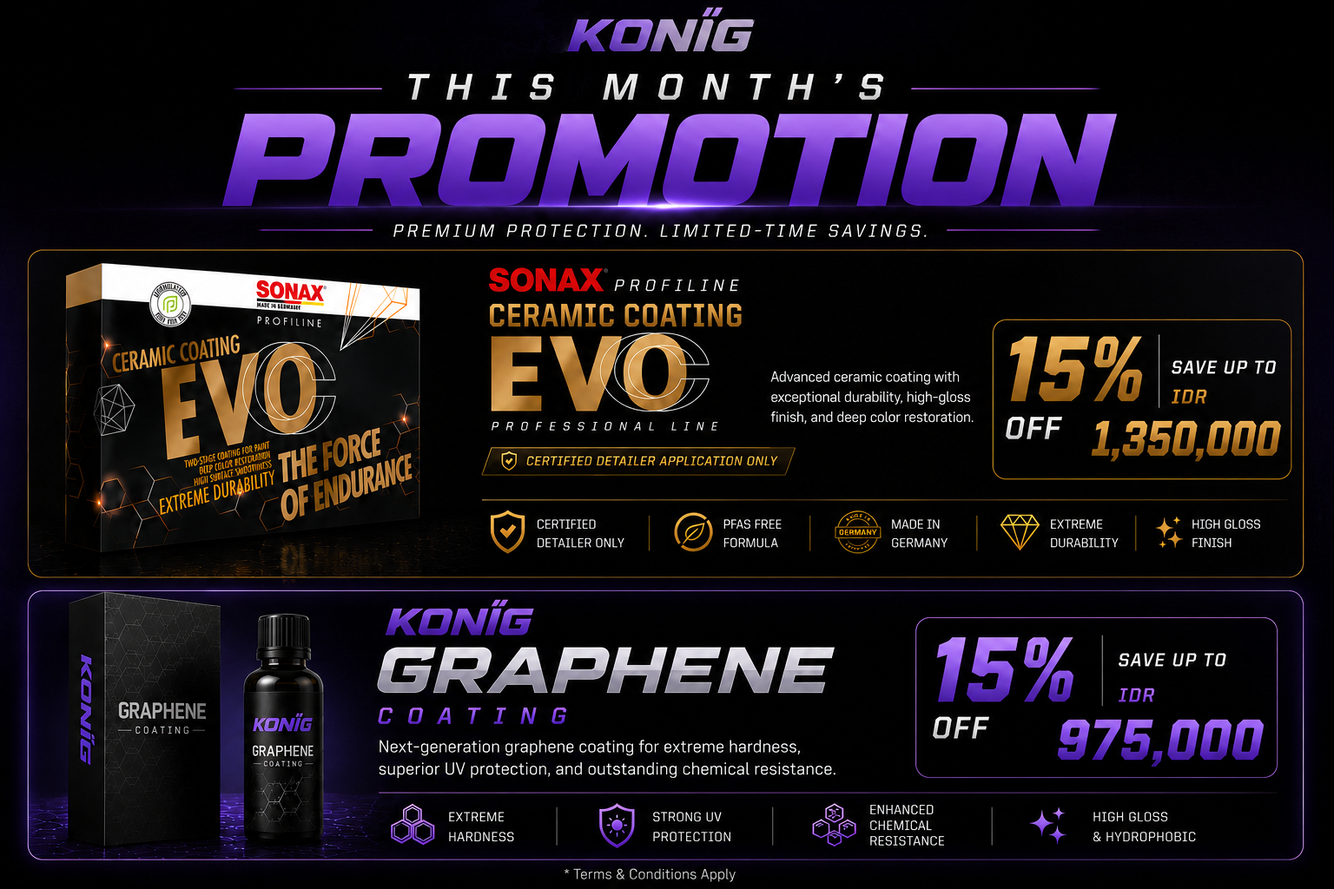
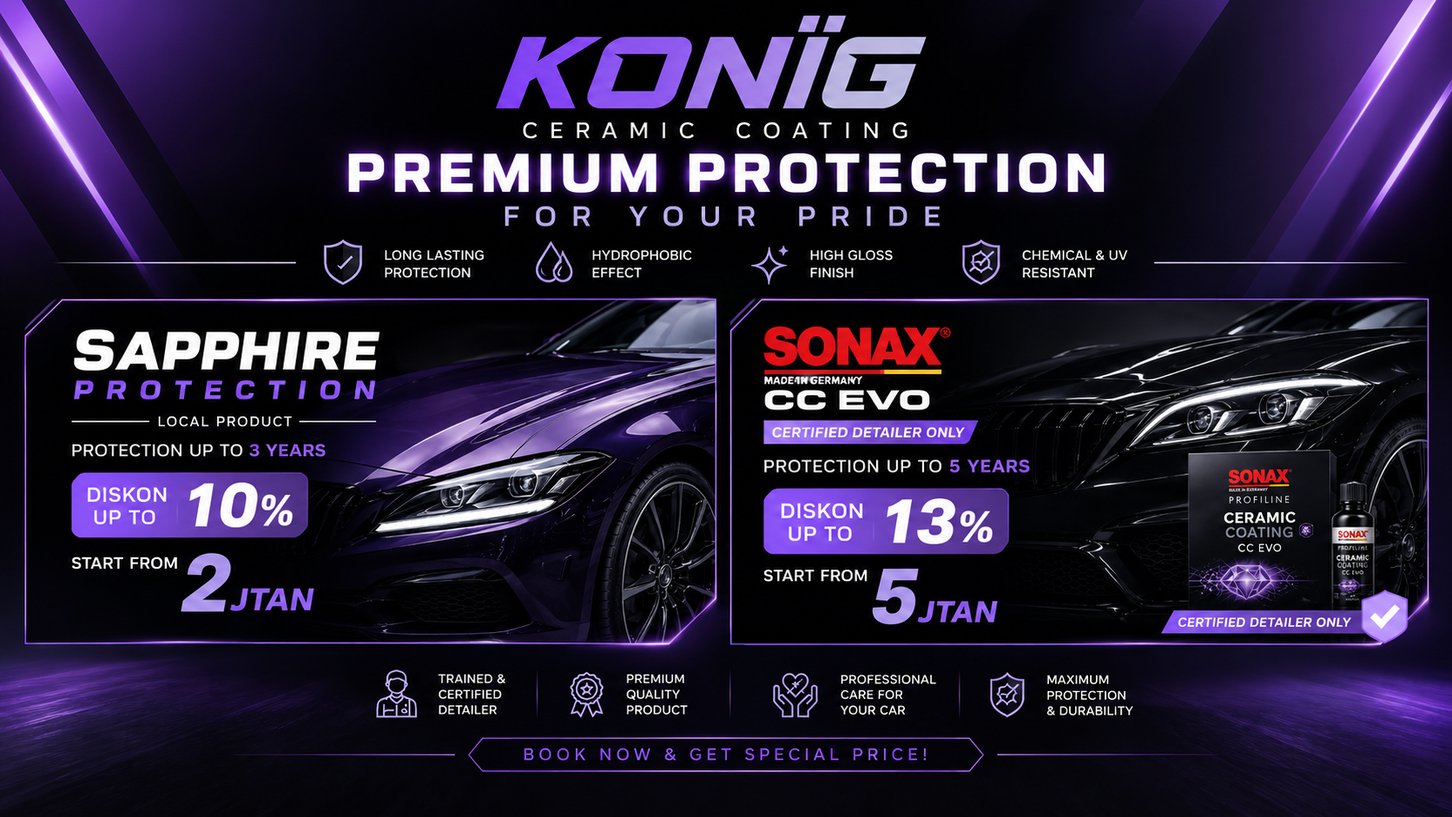
Add files via upload

diff --git a/services.html b/services.html
@@ -1,30 +1,47 @@
 <!DOCTYPE html>
 <html lang="id">
 <head>
+  <!-- Google Analytics + Google Ads Tag -->
+  <script async src="https://www.googletagmanager.com/gtag/js?id=G-ZQDE2DGZZ4"></script>
+  <script>
+    window.dataLayer = window.dataLayer || [];
+    function gtag(){dataLayer.push(arguments);}
+    gtag('js', new Date());
+    gtag('config', 'G-ZQDE2DGZZ4');
+    gtag('config', 'AW-17788548573');
+  </script>
   <meta charset="UTF-8"/>
   <meta name="viewport" content="width=device-width,initial-scale=1.0,maximum-scale=1.0"/>
-  <meta name="description" content="KONÏG Auto Detailing — Layanan Ceramic Coating, Graphene Coating, Premium Wash, Window Coating di Gading Serpong, Tangerang."/>
+  <meta name="description" content="KONÏG Auto Detailing — Layanan Ceramic Coating, Graphene Coating, Premium Wash, Window Coating, Express & Premium Polish di Gading Serpong, Tangerang."/>
   <title>Services — KONÏG Auto Detailing</title>
-  <script async src="https://www.googletagmanager.com/gtag/js?id=G-ZQDE2DGZZ4"></script>
-  <script>window.dataLayer=window.dataLayer||[];function gtag(){dataLayer.push(arguments)}gtag('js',new Date());gtag('config','G-ZQDE2DGZZ4');gtag('config','AW-17788548573');</script>
-  <link rel="preconnect" href="https://fonts.googleapis.com">
+<link rel="preconnect" href="https://fonts.googleapis.com">
   <link href="https://fonts.googleapis.com/css2?family=Bebas+Neue&family=Barlow+Condensed:wght@400;600;700;800;900&family=Barlow:wght@300;400;500&display=swap" rel="stylesheet">
   <style>
     *,*::before,*::after{margin:0;padding:0;box-sizing:border-box}
-    :root{--black:#080810;--dark:#0f0f1a;--panel:#161625;--border:#2a2a45;--purple:#7B2FBE;--purple2:#9B3FDE;--purpleB:#b06aff;--white:#f0eeff;--text:#d4cef0;--muted:#9d93c0}
+    :root{--black:#080810;--dark:#0f0f1a;--panel:#161625;--border:#2a2a45;--purple:#7B2FBE;--purple2:#9B3FDE;--purpleB:#b06aff;--white:#f0eeff;--text:#d4cef0;--muted:#9d93c0;--success:#4cd4a0}
     html{scroll-behavior:smooth;overflow-x:hidden}
     body{background:var(--black);color:var(--text);font-family:'Barlow',sans-serif;overflow-x:hidden;padding-top:128px}
+    .page-eyebrow{font-family:'Barlow Condensed',sans-serif;font-size:10px;font-weight:800;letter-spacing:5px;text-transform:uppercase;color:var(--purpleB);margin-bottom:12px;display:block}
+    .page-title{font-family:'Bebas Neue',sans-serif;font-size:clamp(40px,10vw,64px);letter-spacing:2px;color:var(--white);line-height:1;margin-bottom:8px}
+    .page-title span{color:var(--purpleB)}
+    .page-desc{font-size:15px;font-weight:400;color:var(--text);line-height:1.8;max-width:540px;margin-bottom:48px;opacity:0.9}
 
-    /* PROMO BAR */
-    .promo-bar{background:linear-gradient(90deg,#0a0020,#1a0840,#7B2FBE,#1a0840,#0a0020);background-size:300% 100%;animation:promoShimmer 6s ease-in-out infinite;padding:10px 24px;text-align:center;cursor:pointer;border-bottom:1px solid rgba(123,47,190,0.4);position:fixed;top:0;left:0;right:0;z-index:201;}
-    @keyframes promoShimmer{0%,100%{background-position:0% 50%}50%{background-position:100% 50%}}
-    .promo-bar-inner{display:flex;align-items:center;justify-content:center;gap:12px;flex-wrap:wrap;max-width:1100px;margin:0 auto}
-    .promo-tag{font-family:'Barlow Condensed',sans-serif;font-size:10px;font-weight:800;letter-spacing:3px;text-transform:uppercase;color:#f59e0b;background:rgba(245,158,11,0.15);border:1px solid rgba(245,158,11,0.4);padding:2px 10px}
-    .promo-text{font-family:'Barlow Condensed',sans-serif;font-size:13px;font-weight:700;letter-spacing:1px;color:#fff}
-    .promo-cta{font-family:'Barlow Condensed',sans-serif;font-size:11px;font-weight:800;letter-spacing:2px;text-transform:uppercase;color:#b06aff;border:1px solid #b06aff;padding:3px 12px;transition:all 0.2s}
-    .promo-bar:hover .promo-cta{background:#b06aff;color:#fff}
+    .services-grid{display:grid;gap:2px}
+    @media(min-width:768px){.services-grid{grid-template-columns:1fr 1fr}}
+    .service-card{background:var(--panel);border:1px solid var(--border);border-left:4px solid var(--purple);padding:28px 24px;transition:all 0.25s;position:relative}
+    .service-card:hover{background:#1a1a2e;border-left-color:var(--purpleB)}
+    .service-tag{font-family:'Barlow Condensed',sans-serif;font-size:9px;font-weight:800;letter-spacing:3px;text-transform:uppercase;color:var(--purpleB);background:rgba(123,47,190,0.12);border:1px solid rgba(123,47,190,0.3);padding:3px 10px;display:inline-block;margin-bottom:12px}
+    .service-name{font-family:'Barlow Condensed',sans-serif;font-size:24px;font-weight:900;letter-spacing:1px;color:var(--white);text-transform:uppercase;margin-bottom:8px}
+    .service-duration{font-family:'Barlow Condensed',sans-serif;font-size:11px;font-weight:700;letter-spacing:2px;color:var(--purpleB);text-transform:uppercase;margin-bottom:12px}
+    .service-desc{font-size:13px;color:var(--text);line-height:1.7;margin-bottom:14px}
+    .service-features{display:flex;flex-wrap:wrap;gap:6px}
+    .service-feat{font-size:10px;letter-spacing:1px;padding:4px 10px;border:1px solid var(--border);color:var(--muted);font-family:'Barlow Condensed',sans-serif;font-weight:600;text-transform:uppercase}
+    .service-cta{display:inline-block;margin-top:16px;padding:10px 20px;background:var(--purple2);color:#fff;font-family:'Barlow Condensed',sans-serif;font-size:12px;font-weight:800;letter-spacing:2px;text-transform:uppercase;text-decoration:none;transition:background 0.2s}
+    .service-cta:hover{background:var(--purpleB)}
 
-    /* NAV */
+    .wa-float{position:fixed;bottom:24px;right:24px;z-index:200;width:56px;height:56px;border-radius:50%;background:#25D366;color:white;display:flex;align-items:center;justify-content:center;font-size:26px;text-decoration:none;box-shadow:0 8px 24px rgba(37,211,102,0.4);animation:waPulse 3s ease-in-out infinite}
+    @keyframes waPulse{0%,100%{box-shadow:0 8px 24px rgba(37,211,102,0.4)}50%{box-shadow:0 8px 36px rgba(37,211,102,0.65)}}
+    .site-
     .site-nav{position:fixed;top:42px;left:0;right:0;z-index:100;display:flex;flex-direction:column;background:rgba(8,8,16,0.97);backdrop-filter:blur(16px);border-bottom:1px solid rgba(123,47,190,0.2)}
     .nav-row1{display:flex;align-items:center;justify-content:space-between;padding:10px 20px}
     .nav-row2{display:flex;border-top:1px solid var(--border)}
@@ -35,14 +52,6 @@
     .nav-cta{padding:8px 16px;background:var(--purple2);color:#fff;font-family:'Barlow Condensed',sans-serif;font-size:12px;font-weight:700;letter-spacing:2px;text-transform:uppercase;text-decoration:none;transition:background 0.2s}
     .nav-cta:hover{background:var(--purpleB)}
 
-    /* BANNER MODAL */
-    .banner-overlay{position:fixed;inset:0;z-index:500;background:rgba(4,2,16,0.92);backdrop-filter:blur(6px);display:flex;align-items:center;justify-content:center;padding:20px;}
-    .banner-box{position:relative;max-width:1000px;width:100%;}
-    .banner-box img{width:100%;display:block;border:1px solid rgba(123,47,190,0.4)}
-    .banner-close{position:absolute;top:-14px;right:-14px;width:36px;height:36px;border-radius:50%;background:#9B3FDE;border:none;color:#fff;font-size:18px;cursor:pointer;display:flex;align-items:center;justify-content:center;}
-    .banner-cta{display:block;text-align:center;margin-top:14px;padding:14px;background:#9B3FDE;color:#fff;font-family:'Barlow Condensed',sans-serif;font-size:13px;font-weight:800;letter-spacing:3px;text-transform:uppercase;text-decoration:none}
-
-    /* CONTENT */
     .section-inner{max-width:1100px;margin:0 auto;padding:48px 24px 80px}
     .page-eyebrow{font-family:'Barlow Condensed',sans-serif;font-size:10px;font-weight:800;letter-spacing:5px;text-transform:uppercase;color:var(--purpleB);margin-bottom:12px;display:block}
     .page-title{font-family:'Bebas Neue',sans-serif;font-size:clamp(40px,10vw,64px);letter-spacing:2px;color:var(--white);line-height:1;margin-bottom:8px}
@@ -50,41 +59,33 @@
     .page-desc{font-size:15px;font-weight:400;color:var(--text);line-height:1.8;max-width:540px;margin-bottom:48px;opacity:0.9}
     .services-grid{display:grid;gap:2px}
     @media(min-width:768px){.services-grid{grid-template-columns:1fr 1fr}}
-    .service-card{background:var(--panel);border:1px solid var(--border);border-left:4px solid var(--purple);padding:28px 24px;transition:all 0.25s;position:relative}
-    .service-card:hover{background:#1a1a2e;border-left-color:var(--purpleB)}
-    .service-tag{font-family:'Barlow Condensed',sans-serif;font-size:9px;font-weight:800;letter-spacing:3px;text-transform:uppercase;color:var(--purpleB);background:rgba(123,47,190,0.12);border:1px solid rgba(123,47,190,0.3);padding:3px 10px;display:inline-block;margin-bottom:12px}
-    .service-name{font-family:'Barlow Condensed',sans-serif;font-size:24px;font-weight:900;letter-spacing:1px;color:var(--white);text-transform:uppercase;margin-bottom:8px}
-    .service-duration{font-family:'Barlow Condensed',sans-serif;font-size:11px;font-weight:700;letter-spacing:2px;color:var(--purpleB);text-transform:uppercase;margin-bottom:12px}
-    .service-desc{font-size:13px;color:var(--text);line-height:1.7;margin-bottom:14px}
-    .service-features{display:flex;flex-wrap:wrap;gap:6px;margin-bottom:16px}
-    .service-feat{font-size:10px;letter-spacing:1px;padding:4px 10px;border:1px solid var(--border);color:var(--muted);font-family:'Barlow Condensed',sans-serif;font-weight:600;text-transform:uppercase}
-    .service-cta{display:inline-block;padding:10px 20px;background:var(--purple2);color:#fff;font-family:'Barlow Condensed',sans-serif;font-size:12px;font-weight:800;letter-spacing:2px;text-transform:uppercase;text-decoration:none;transition:background 0.2s}
-    .service-cta:hover{background:var(--purpleB)}
-
-    .wa-float{position:fixed;bottom:24px;right:24px;z-index:200;width:56px;height:56px;border-radius:50%;background:#25D366;color:white;display:flex;align-items:center;justify-content:center;font-size:26px;text-decoration:none;box-shadow:0 8px 24px rgba(37,211,102,0.4);animation:waPulse 3s ease-in-out infinite}
-    @keyframes waPulse{0%,100%{box-shadow:0 8px 24px rgba(37,211,102,0.4)}50%{box-shadow:0 8px 36px rgba(37,211,102,0.65)}}
-
-    /* SERVICE MODALS */
-    .svc-modal{display:none;position:fixed;inset:0;z-index:500;background:rgba(4,2,16,0.94);backdrop-filter:blur(6px);align-items:center;justify-content:center;padding:16px;}
-    .svc-modal-box{position:relative;width:100%;max-height:92vh;overflow-y:auto;}
-    .svc-modal-close{position:sticky;top:0;right:0;float:right;width:36px;height:36px;border-radius:50%;background:#9B3FDE;border:none;color:#fff;font-size:18px;cursor:pointer;z-index:10;margin-bottom:8px;}
-    .svc-modal-img{width:100%;display:block;border:1px solid rgba(123,47,190,0.4);}
-    .svc-modal-cta{display:block;text-align:center;margin-top:12px;padding:14px;background:#9B3FDE;color:#fff;font-family:'Barlow Condensed',sans-serif;font-size:13px;font-weight:800;letter-spacing:3px;text-transform:uppercase;text-decoration:none;}
+  </style>
+  <style>
+    .promo-bar{
+      background:linear-gradient(90deg,#0a0020,#1a0840,#7B2FBE,#1a0840,#0a0020);
+      background-size:300% 100%;
+      animation:promoShimmer 6s ease-in-out infinite;
+      padding:10px 24px;text-align:center;cursor:pointer;
+      border-bottom:1px solid rgba(123,47,190,0.4);
+      position:fixed;top:0;left:0;right:0;z-index:201;
+    }
+    @keyframes promoShimmer{0%,100%{background-position:0% 50%}50%{background-position:100% 50%}}
+    .promo-bar-inner{display:flex;align-items:center;justify-content:center;gap:12px;flex-wrap:wrap;max-width:1100px;margin:0 auto}
+    .promo-tag{font-family:'Barlow Condensed',sans-serif;font-size:10px;font-weight:800;letter-spacing:3px;text-transform:uppercase;color:#f59e0b;background:rgba(245,158,11,0.15);border:1px solid rgba(245,158,11,0.4);padding:2px 10px}
+    .promo-text{font-family:'Barlow Condensed',sans-serif;font-size:13px;font-weight:700;letter-spacing:1px;color:#fff}
+    .promo-cta{font-family:'Barlow Condensed',sans-serif;font-size:11px;font-weight:800;letter-spacing:2px;text-transform:uppercase;color:#b06aff;border:1px solid #b06aff;padding:3px 12px;transition:all 0.2s}
+    .promo-bar:hover .promo-cta{background:#b06aff;color:#fff}
+    .banner-overlay{position:fixed;inset:0;z-index:500;background:rgba(4,2,16,0.92);backdrop-filter:blur(6px);display:flex;align-items:center;justify-content:center;padding:20px;}
+    .banner-box{position:relative;max-width:1000px;width:100%;}
+    .banner-box img{width:100%;display:block;border:1px solid rgba(123,47,190,0.4)}
+    .banner-close{position:absolute;top:-14px;right:-14px;width:36px;height:36px;border-radius:50%;background:#9B3FDE;border:none;color:#fff;font-size:18px;cursor:pointer;display:flex;align-items:center;justify-content:center;box-shadow:0 4px 16px rgba(123,47,190,0.5)}
+    .banner-cta{display:block;text-align:center;margin-top:14px;padding:14px;background:#9B3FDE;color:#fff;font-family:'Barlow Condensed',sans-serif;font-size:13px;font-weight:800;letter-spacing:3px;text-transform:uppercase;text-decoration:none}
   </style>
 </head>
 <body>
 
-<!-- PROMO BAR (fixed top:0) -->
-<div class="promo-bar" onclick="openGrapheneBanner();trackEvent('promo_bar_click')">
-  <div class="promo-bar-inner">
-    <span id="promoTextShort">🔥 Eksklusif Promo</span>
-    <span id="promoTagFull" style="display:none;" class="promo-tag">🔥 Graphene Coating</span>
-    <span id="promoTextFull" style="display:none;" class="promo-text">KONÏG Graphene Coating — Next Gen Protection · Eternity up to 8 Years · Made in Korea</span>
-    <span class="promo-cta">Tanya Sekarang →</span>
-  </div>
-</div>
+<!-- GRAPHENE PROMO BAR (always visible) -->
 
-<!-- NAV (fixed top:42px) -->
 <nav class="site-nav">
   <div class="nav-row1">
     <a href="/" onclick="sessionStorage.setItem('konig_welcomed','1')" style="display:block;line-height:0;">
@@ -100,37 +101,62 @@
   </div>
 </nav>
 
-<!-- BANNER MODAL -->
+<div class="promo-bar" onclick="openGrapheneBanner();trackEvent('promo_bar_click')" style="cursor:pointer;">
+  <div class="promo-bar-inner">
+    <span id="promoTextShort" style="font-family:'Barlow Condensed',sans-serif;font-size:15px;font-weight:800;letter-spacing:1px;color:#fff;">🔥 Eksklusif Promo</span>
+    <span id="promoTagFull" style="display:none;font-family:'Barlow Condensed',sans-serif;font-size:13px;font-weight:800;color:#fff;">🔥 Graphene Coating</span>
+    <span id="promoTextFull" style="display:none;font-family:'Barlow Condensed',sans-serif;font-size:13px;font-weight:700;color:#e0d0ff;">KONÏG Graphene Coating — Next Gen Protection · Eternity up to 8 Years · Made in Korea</span>
+    <span class="promo-cta">Tanya Sekarang →</span>
+  </div>
+</div>
+
+<!-- GRAPHENE BANNER MODAL — desktop: landscape banner, mobile: portrait pricelist -->
 <div class="banner-overlay" id="bannerModal" style="display:none;">
   <div class="banner-box" id="bannerContent">
     <button class="banner-close" onclick="document.getElementById('bannerModal').style.display='none'">×</button>
-    <img src="graphene-pricelist-desktop.png" id="bannerImgDesktop" alt="Pricelist"/>
-    <img src="graphene-pricelist-mobile.png" id="bannerImgMobile" style="display:none;" alt="Pricelist"/>
-    <a href="/booking.html" class="banner-cta" onclick="document.getElementById('bannerModal').style.display='none'">Tanya Graphene Coating Sekarang →</a>
+    <img src="graphene-pricelist-desktop.png" alt="KONIG Graphene Coating Pricelist" id="bannerImgDesktop"/>
+    <img src="graphene-pricelist-mobile.png" alt="KONIG Graphene Coating Pricelist" id="bannerImgMobile" style="display:none;"/>
+    <a href="/booking.html" class="banner-cta" onclick="document.getElementById('bannerModal').style.display='none';trackEvent('banner_cta_click')">
+      Tanya Graphene Coating Sekarang →
+    </a>
   </div>
 </div>
 
-<!-- GRAPHENE WHY MODAL -->
-<div class="svc-modal" id="grapheneWhyModal">
-  <div class="svc-modal-box" id="grapheneWhyContent">
-    <button class="svc-modal-close" onclick="document.getElementById('grapheneWhyModal').style.display='none'">×</button>
-    <div style="clear:both;"></div>
-    <img class="svc-modal-img" id="grapheneWhyImg" src="" alt="Kenapa Graphene Coating?"/>
-    <a href="/booking.html" class="svc-modal-cta" onclick="document.getElementById('grapheneWhyModal').style.display='none'">Booking Sekarang →</a>
-  </div>
+<script>
+  function trackEvent(name, params) {
+    if (typeof gtag !== 'undefined') gtag('event', name, params || {})
+  }
+  function openGrapheneBanner() {
+    const isMobile = window.innerWidth <= 768
+    document.getElementById('bannerImgDesktop').style.display = isMobile ? 'none' : 'block'
+    document.getElementById('bannerImgMobile').style.display = isMobile ? 'block' : 'none'
+    const box = document.getElementById('bannerContent')
+    box.style.maxWidth = isMobile ? '420px' : '1000px'
+    document.getElementById('bannerModal').style.display = 'flex'
+  }
+  if (typeof window !== 'undefined') {
+    window.addEventListener('DOMContentLoaded', function(){
+      var m = document.getElementById('bannerModal')
+      if (m) m.addEventListener('click', function(e){ if(e.target === this) this.style.display = 'none' })
+      if (window.innerWidth >= 600) {
+        var s = document.getElementById('promoTextShort')
+        var t = document.getElementById('promoTagFull')
+        var f = document.getElementById('promoTextFull')
+        if (s) s.style.display = 'none'
+        if (t) t.style.display = 'inline'
+        if (f) f.style.display = 'inline'
+      }
+    })
+  }
+</script>
+
+
 </div>
 
-<!-- SERVICE INFO MODAL -->
-<div class="svc-modal" id="serviceModal">
-  <div class="svc-modal-box" id="serviceModalContent">
-    <button class="svc-modal-close" onclick="document.getElementById('serviceModal').style.display='none'">×</button>
-    <div style="clear:both;"></div>
-    <img class="svc-modal-img" id="serviceModalImg" src="" alt=""/>
-    <a href="/booking.html" class="svc-modal-cta" onclick="document.getElementById('serviceModal').style.display='none'">Booking Sekarang →</a>
-  </div>
 </div>
 
-<!-- CONTENT -->
+
+
 <div class="section-inner">
   <span class="page-eyebrow">KONÏG Auto Detailing · Gading Serpong</span>
   <h1 class="page-title">LAYANAN<br/><span>KAMI</span></h1>
@@ -174,7 +200,7 @@
       <div class="service-duration">⏱ Estimasi 1–2 jam</div>
       <p class="service-desc">Exterior detailing menyeluruh dengan standar jauh di atas car wash biasa. pH neutral soap wash, wheels & tire cleaning, tar remover, trim protection, dan wetcoat protection 1 bulan. Swirl-free washing process dengan 2-bucket method.</p>
       <div class="service-features">
-        <span class="service-feat">PH Neutral Soap</span>
+        <span class="service-feat">pH Neutral Soap</span>
         <span class="service-feat">Wheels & Tire</span>
         <span class="service-feat">Tar Remover</span>
         <span class="service-feat">Trim Protection</span>
@@ -215,49 +241,53 @@
   </div>
 </div>
 
-<a href="https://wa.me/62881080578712?text=Halo%20KONÏG,%20saya%20ingin%20konsultasi%20tentang%20layanan%20coating" class="wa-float" target="_blank">💬</a>
+<!-- SERVICE MODAL -->
+<div id="serviceModal" style="display:none;position:fixed;inset:0;z-index:500;background:rgba(4,2,16,0.94);backdrop-filter:blur(6px);align-items:center;justify-content:center;padding:16px;">
+  <div id="serviceModalContent" style="position:relative;width:100%;max-height:92vh;overflow-y:auto;-webkit-overflow-scrolling:touch;">
+    <button onclick="document.getElementById('serviceModal').style.display='none'" style="position:fixed;top:42px;left:0;right:0;top:0;right:0;float:right;width:36px;height:36px;border-radius:50%;background:#9B3FDE;border:none;color:#fff;font-size:18px;cursor:pointer;z-index:10;margin-bottom:8px;">×</button>
+    <div style="clear:both;"></div>
+    <img id="serviceModalImg" src="" alt="" style="width:100%;display:block;border:1px solid rgba(123,47,190,0.4);" />
+    <a href="/booking.html" onclick="document.getElementById('serviceModal').style.display='none'" style="display:block;text-align:center;margin-top:12px;padding:14px;background:#9B3FDE;color:#fff;font-family:'Barlow Condensed',sans-serif;font-size:13px;font-weight:800;letter-spacing:3px;text-transform:uppercase;text-decoration:none;">Booking Sekarang →</a>
+  </div>
+</div>
+
+<div id="grapheneWhyModal" style="display:none;position:fixed;inset:0;z-index:500;background:rgba(4,2,16,0.94);backdrop-filter:blur(6px);align-items:center;justify-content:center;padding:16px;">
+  <div id="grapheneWhyContent" style="position:relative;width:100%;max-height:92vh;overflow-y:auto;-webkit-overflow-scrolling:touch;">
+    <button onclick="document.getElementById('grapheneWhyModal').style.display='none'" style="position:fixed;top:42px;left:0;right:0;top:0;right:0;float:right;width:36px;height:36px;border-radius:50%;background:#9B3FDE;border:none;color:#fff;font-size:18px;cursor:pointer;z-index:10;margin-bottom:8px;">×</button>
+    <div style="clear:both;"></div>
+    <img id="grapheneWhyImg" src="" alt="" style="width:100%;display:block;border:1px solid rgba(123,47,190,0.4);" />
+    <a href="/booking.html" onclick="document.getElementById('grapheneWhyModal').style.display='none'" style="display:block;text-align:center;margin-top:12px;padding:14px;background:#9B3FDE;color:#fff;font-family:'Barlow Condensed',sans-serif;font-size:13px;font-weight:800;letter-spacing:3px;text-transform:uppercase;text-decoration:none;">Booking Sekarang →</a>
+  </div>
+</div>
 
 <script>
-  function trackEvent(n,p){if(typeof gtag!=='undefined')gtag('event',n,p||{})}
-
-  function openGrapheneBanner(){
-    const isMobile=window.innerWidth<=768
-    document.getElementById('bannerImgDesktop').style.display=isMobile?'none':'block'
-    document.getElementById('bannerImgMobile').style.display=isMobile?'block':'none'
-    document.getElementById('bannerContent').style.maxWidth=isMobile?'420px':'1000px'
-    document.getElementById('bannerModal').style.display='flex'
+  const SERVICE_IMAGES = {
+    'premium-wash': { desktop:'premium-wash-desktop.png', mobile:'premium-wash-mobile.png' },
+    'ceramic-coating': { desktop:'ceramic-coating-desktop.png', mobile:'ceramic-coating-mobile.png' },
   }
-
-  const SERVICE_IMAGES={
-    'premium-wash':{desktop:'premium-wash-desktop.png',mobile:'premium-wash-mobile.png'},
-    'ceramic-coating':{desktop:'ceramic-coating-desktop.png',mobile:'ceramic-coating-mobile.png'},
+  function openServiceModal(key) {
+    const imgs = SERVICE_IMAGES[key]; if(!imgs) return
+    const isMobile = window.innerWidth <= 600
+    const img = document.getElementById('serviceModalImg')
+    const box = document.getElementById('serviceModalContent')
+    const modal = document.getElementById('serviceModal')
+    img.src = isMobile ? imgs.mobile : imgs.desktop
+    if(isMobile){box.style.maxWidth='100%';box.style.maxHeight='100vh';box.style.overflowY='hidden';box.style.display='flex';box.style.flexDirection='column';img.style.flex='1';img.style.objectFit='contain';img.style.maxHeight='calc(100vh - 56px)';img.style.width='100%';modal.style.padding='0';modal.style.alignItems='flex-end'}
+    else{box.style.maxWidth='1100px';box.style.maxHeight='92vh';box.style.overflowY='auto';box.style.display='block';img.style.flex='';img.style.objectFit='';img.style.maxHeight='';img.style.width='100%';modal.style.padding='16px';modal.style.alignItems='center'}
+    modal.style.display='flex'
   }
-  function openServiceModal(key){
-    const imgs=SERVICE_IMAGES[key];if(!imgs)return
-    const isMobile=window.innerWidth<=600
-    document.getElementById('serviceModalImg').src=isMobile?imgs.mobile:imgs.desktop
-    const box=document.getElementById('serviceModalContent')
-    box.style.maxWidth=isMobile?'420px':'1100px'
-    document.getElementById('serviceModal').style.display='flex'
+  function openGrapheneWhy() {
+    const isMobile = window.innerWidth <= 600
+    const img = document.getElementById('grapheneWhyImg')
+    const box = document.getElementById('grapheneWhyContent')
+    const modal = document.getElementById('grapheneWhyModal')
+    img.src = isMobile ? 'graphene-why-mobile.png' : 'graphene-why-desktop.png'
+    if(isMobile){box.style.maxWidth='100%';box.style.maxHeight='100vh';box.style.overflowY='hidden';box.style.display='flex';box.style.flexDirection='column';img.style.flex='1';img.style.objectFit='contain';img.style.maxHeight='calc(100vh - 56px)';img.style.width='100%';modal.style.padding='0';modal.style.alignItems='flex-end'}
+    else{box.style.maxWidth='1100px';box.style.maxHeight='92vh';box.style.overflowY='auto';box.style.display='block';img.style.flex='';img.style.objectFit='';img.style.maxHeight='';modal.style.padding='16px';modal.style.alignItems='center'}
+    modal.style.display='flex'
   }
-  function openGrapheneWhy(){
-    const isMobile=window.innerWidth<=600
-    document.getElementById('grapheneWhyImg').src=isMobile?'graphene-why-mobile.png':'graphene-why-desktop.png'
-    const box=document.getElementById('grapheneWhyContent')
-    box.style.maxWidth=isMobile?'420px':'1100px'
-    document.getElementById('grapheneWhyModal').style.display='flex'
-  }
-
-  document.addEventListener('DOMContentLoaded',function(){
-    if(window.innerWidth>=600){
-      document.getElementById('promoTextShort').style.display='none'
-      document.getElementById('promoTagFull').style.display='inline'
-      document.getElementById('promoTextFull').style.display='inline'
-    }
-    ;[document.getElementById('bannerModal'),document.getElementById('grapheneWhyModal'),document.getElementById('serviceModal')].forEach(function(m){
-      if(m)m.addEventListener('click',function(e){if(e.target===this)this.style.display='none'})
-    })
-  })
 </script>
+
+<a href="https://wa.me/62881080578712?text=Halo%20KONÏG,%20saya%20ingin%20konsultasi%20tentang%20layanan%20coating" class="wa-float" target="_blank">💬</a>
 </body>
 </html>

diff --git a/booking.html b/booking.html
@@ -134,8 +134,8 @@
 <div class="promo-bar" onclick="openGrapheneBanner();trackEvent('promo_bar_click')" style="cursor:pointer;">
   <div class="promo-bar-inner">
     <span id="promoTextShort" style="font-family:'Barlow Condensed',sans-serif;font-size:15px;font-weight:800;letter-spacing:1px;color:#fff;">🔥 Eksklusif Promo</span>
-    <span id="promoTagFull" style="display:none;font-family:'Barlow Condensed',sans-serif;font-size:13px;font-weight:800;color:#fff;">🔥 Graphene Coating</span>
-    <span id="promoTextFull" style="display:none;font-family:'Barlow Condensed',sans-serif;font-size:13px;font-weight:700;color:#e0d0ff;">KONÏG Graphene Coating — Next Gen Protection · Eternity up to 8 Years · Made in Korea</span>
+    <span id="promoTagFull" style="display:none;font-family:'Barlow Condensed',sans-serif;font-size:13px;font-weight:800;color:#fff;">🔥 September Promo</span>
+    <span id="promoTextFull" style="display:none;font-family:'Barlow Condensed',sans-serif;font-size:13px;font-weight:700;color:#e0d0ff;">KONÏG September Promo — Sapphire 10% Off · Sonax CC EVO 13% Off · Ceramic Coating Terbaik</span>
     <span class="promo-cta">Tanya Sekarang →</span>
   </div>
 </div>

diff --git a/index.html b/index.html
@@ -230,8 +230,8 @@
 <div class="promo-bar" onclick="openGrapheneBanner();trackEvent('promo_bar_click')" style="cursor:pointer;">
   <div class="promo-bar-inner">
     <span id="promoTextShort" style="font-family:'Barlow Condensed',sans-serif;font-size:15px;font-weight:800;letter-spacing:1px;color:#fff;">🔥 Eksklusif Promo</span>
-    <span id="promoTagFull" style="display:none;font-family:'Barlow Condensed',sans-serif;font-size:13px;font-weight:800;color:#fff;">🔥 Graphene Coating</span>
-    <span id="promoTextFull" style="display:none;font-family:'Barlow Condensed',sans-serif;font-size:13px;font-weight:700;color:#e0d0ff;">KONÏG Graphene Coating — Next Gen Protection · Eternity up to 8 Years · Made in Korea</span>
+    <span id="promoTagFull" style="display:none;font-family:'Barlow Condensed',sans-serif;font-size:13px;font-weight:800;color:#fff;">🔥 September Promo</span>
+    <span id="promoTextFull" style="display:none;font-family:'Barlow Condensed',sans-serif;font-size:13px;font-weight:700;color:#e0d0ff;">KONÏG September Promo — Sapphire 10% Off · Sonax CC EVO 13% Off · Ceramic Coating Terbaik</span>
     <span class="promo-cta">Tanya Sekarang →</span>
   </div>
 </div>

diff --git a/location.html b/location.html
@@ -93,8 +93,8 @@
 <div class="promo-bar" onclick="openGrapheneBanner();trackEvent('promo_bar_click')" style="cursor:pointer;">
   <div class="promo-bar-inner">
     <span id="promoTextShort" style="font-family:'Barlow Condensed',sans-serif;font-size:15px;font-weight:800;letter-spacing:1px;color:#fff;">🔥 Eksklusif Promo</span>
-    <span id="promoTagFull" style="display:none;font-family:'Barlow Condensed',sans-serif;font-size:13px;font-weight:800;color:#fff;">🔥 Graphene Coating</span>
-    <span id="promoTextFull" style="display:none;font-family:'Barlow Condensed',sans-serif;font-size:13px;font-weight:700;color:#e0d0ff;">KONÏG Graphene Coating — Next Gen Protection · Eternity up to 8 Years · Made in Korea</span>
+    <span id="promoTagFull" style="display:none;font-family:'Barlow Condensed',sans-serif;font-size:13px;font-weight:800;color:#fff;">🔥 September Promo</span>
+    <span id="promoTextFull" style="display:none;font-family:'Barlow Condensed',sans-serif;font-size:13px;font-weight:700;color:#e0d0ff;">KONÏG September Promo — Sapphire 10% Off · Sonax CC EVO 13% Off · Ceramic Coating Terbaik</span>
     <span class="promo-cta">Tanya Sekarang →</span>
   </div>
 </div>

diff --git a/pricelist.html b/pricelist.html
@@ -77,8 +77,8 @@
 <div class="promo-bar" onclick="openGrapheneBanner();trackEvent('promo_bar_click')" style="cursor:pointer;">
   <div class="promo-bar-inner">
     <span id="promoTextShort" style="font-family:'Barlow Condensed',sans-serif;font-size:15px;font-weight:800;letter-spacing:1px;color:#fff;">🔥 Eksklusif Promo</span>
-    <span id="promoTagFull" style="display:none;font-family:'Barlow Condensed',sans-serif;font-size:13px;font-weight:800;color:#fff;">🔥 Graphene Coating</span>
-    <span id="promoTextFull" style="display:none;font-family:'Barlow Condensed',sans-serif;font-size:13px;font-weight:700;color:#e0d0ff;">KONÏG Graphene Coating — Next Gen Protection · Eternity up to 8 Years · Made in Korea</span>
+    <span id="promoTagFull" style="display:none;font-family:'Barlow Condensed',sans-serif;font-size:13px;font-weight:800;color:#fff;">🔥 September Promo</span>
+    <span id="promoTextFull" style="display:none;font-family:'Barlow Condensed',sans-serif;font-size:13px;font-weight:700;color:#e0d0ff;">KONÏG September Promo — Sapphire 10% Off · Sonax CC EVO 13% Off · Ceramic Coating Terbaik</span>
     <span class="promo-cta">Tanya Sekarang →</span>
   </div>
 </div>

diff --git a/reviews.html b/reviews.html
@@ -94,8 +94,8 @@
 <div class="promo-bar" onclick="openGrapheneBanner();trackEvent('promo_bar_click')" style="cursor:pointer;">
   <div class="promo-bar-inner">
     <span id="promoTextShort" style="font-family:'Barlow Condensed',sans-serif;font-size:15px;font-weight:800;letter-spacing:1px;color:#fff;">🔥 Eksklusif Promo</span>
-    <span id="promoTagFull" style="display:none;font-family:'Barlow Condensed',sans-serif;font-size:13px;font-weight:800;color:#fff;">🔥 Graphene Coating</span>
-    <span id="promoTextFull" style="display:none;font-family:'Barlow Condensed',sans-serif;font-size:13px;font-weight:700;color:#e0d0ff;">KONÏG Graphene Coating — Next Gen Protection · Eternity up to 8 Years · Made in Korea</span>
+    <span id="promoTagFull" style="display:none;font-family:'Barlow Condensed',sans-serif;font-size:13px;font-weight:800;color:#fff;">🔥 September Promo</span>
+    <span id="promoTextFull" style="display:none;font-family:'Barlow Condensed',sans-serif;font-size:13px;font-weight:700;color:#e0d0ff;">KONÏG September Promo — Sapphire 10% Off · Sonax CC EVO 13% Off · Ceramic Coating Terbaik</span>
     <span class="promo-cta">Tanya Sekarang →</span>
   </div>
 </div>
